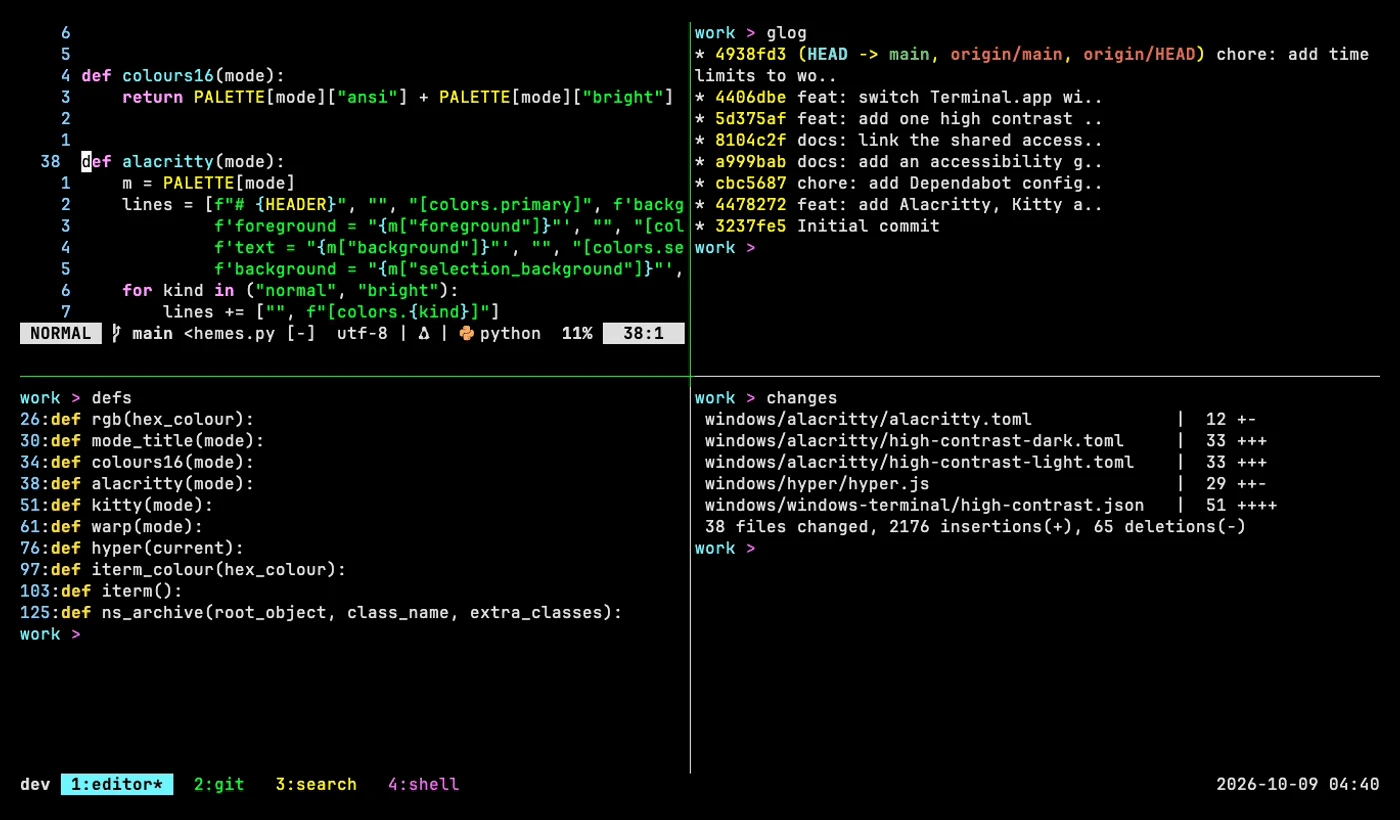
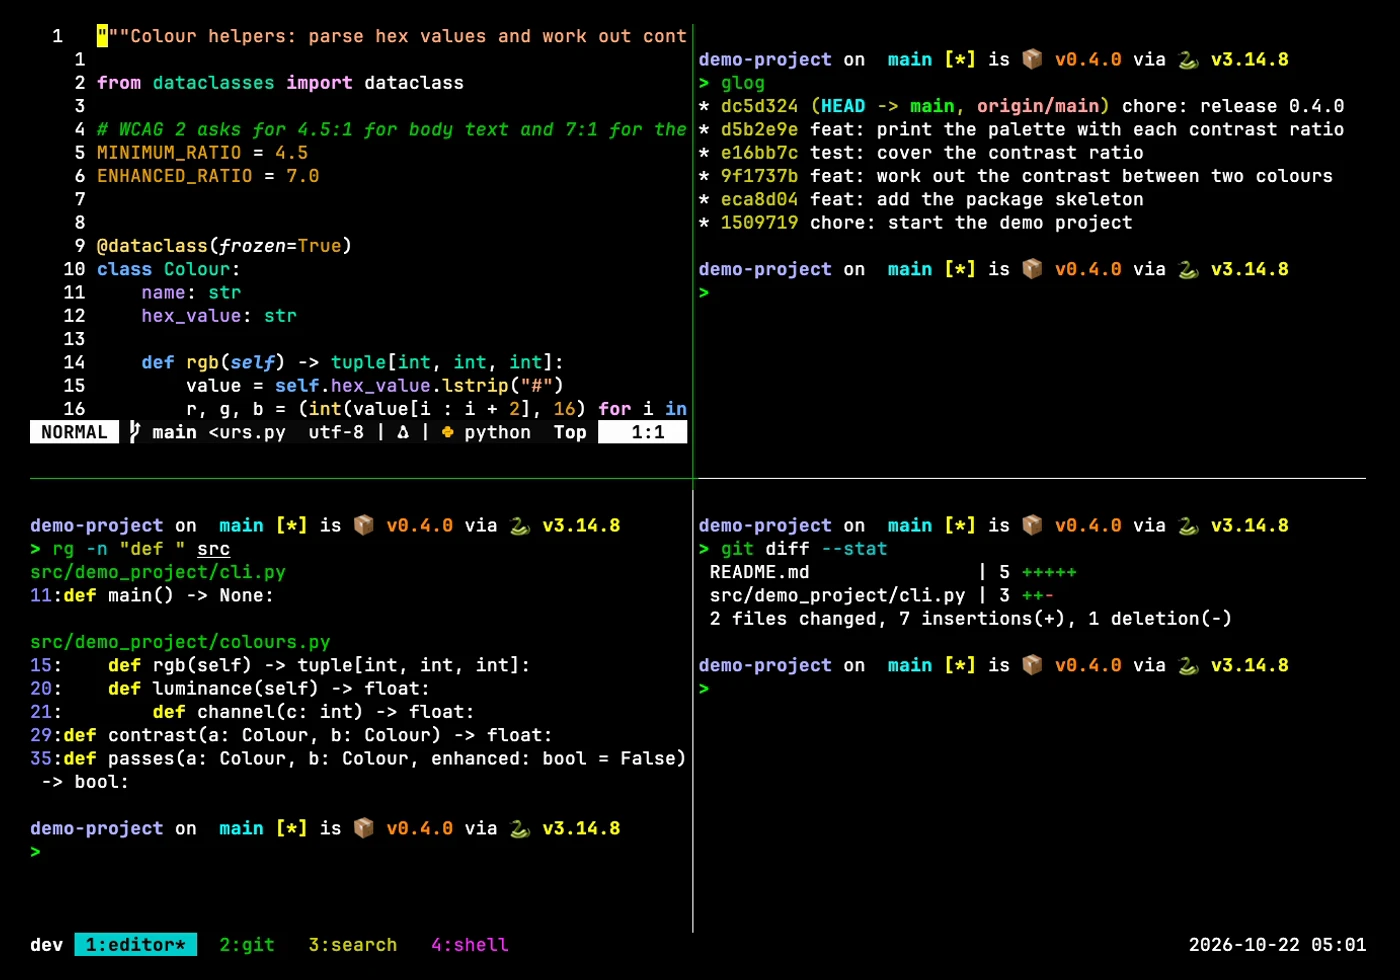
docs: re-record the demo media in Zacess Deep Contrast (#18)
Closes #17

Changed region(s): [[0.0, 0.0305, 0.9829, 0.8537], [0.0, 0.9451, 0.3686, 0.9756], [0.8293, 0.9451, 0.9829, 0.9756]]

diff --git a/README.md b/README.md
@@ -5,13 +5,27 @@
 
 ## In action
 
-Screenshots in the High Contrast palette, dark and light. Each one links to a short animation of the same scene.
+Screenshots in Zacess Deep Contrast Dark and Light, recorded in a demo project. Each one links
+to a short animation of the same scene.
 
 ### tmux
 
 | Dark | Light |
 | --- | --- |
-| [![Dark: tmux with four coloured tabs named editor, git, search and shell, the editor window split into Neovim, git log, ripgrep and diff panes](docs/demo/tmux-dark.webp)](docs/demo/tmux-dark.gif) | [![Light: tmux with four coloured tabs named editor, git, search and shell, the editor window split into Neovim, git log, ripgrep and diff panes](docs/demo/tmux-light.webp)](docs/demo/tmux-light.gif) |
+| [![Dark: tmux with four coloured tabs named editor, git, search and shell, the editor window split into Neovim, a ripgrep search, a git log and a diff summary](docs/demo/tmux-dark.webp)](docs/demo/tmux-dark.gif) | [![Light: tmux with four coloured tabs named editor, git, search and shell, the editor window split into Neovim, a ripgrep search, a git log and a diff summary](docs/demo/tmux-light.webp)](docs/demo/tmux-light.gif) |
+
+### Re-recording
+
+Each scene is a [VHS](https://github.com/charmbracelet/vhs) script in [`docs/demo`](docs/demo),
+recorded once per theme in a throwaway demo under `/tmp/demo`, so the shots show the real config
+with nothing personal on screen. The colours come from
+[Zacess Themes](https://github.com/zacesshq/themes).
+
+```sh
+brew install vhs gifsicle webp
+docs/demo/record.sh           # every scene, dark and light
+docs/demo/record.sh tmux      # one scene, by its file name
+```
 
 ## What's here
 

diff --git a/CHANGELOG.md b/CHANGELOG.md
@@ -11,6 +11,7 @@ Versioning follows [Semantic Versioning](https://semver.org/spec/v2.0.0.html).
 
 ### Added
 
+- The screenshots and clips are recorded again in Zacess Deep Contrast Dark and Light from VHS scripts in `docs/demo`, using the real config in a throwaway demo project. `docs/demo/record.sh` makes them all again with one command.
 - Tabs are coloured by window name: editor cyan, git green, search yellow, shell magenta and blue for anything else. The current tab is a solid block of its colour, bold and marked with `*`.
 - Screenshots and short animations of the config in action, dark and light, in the README's In action section.
 
